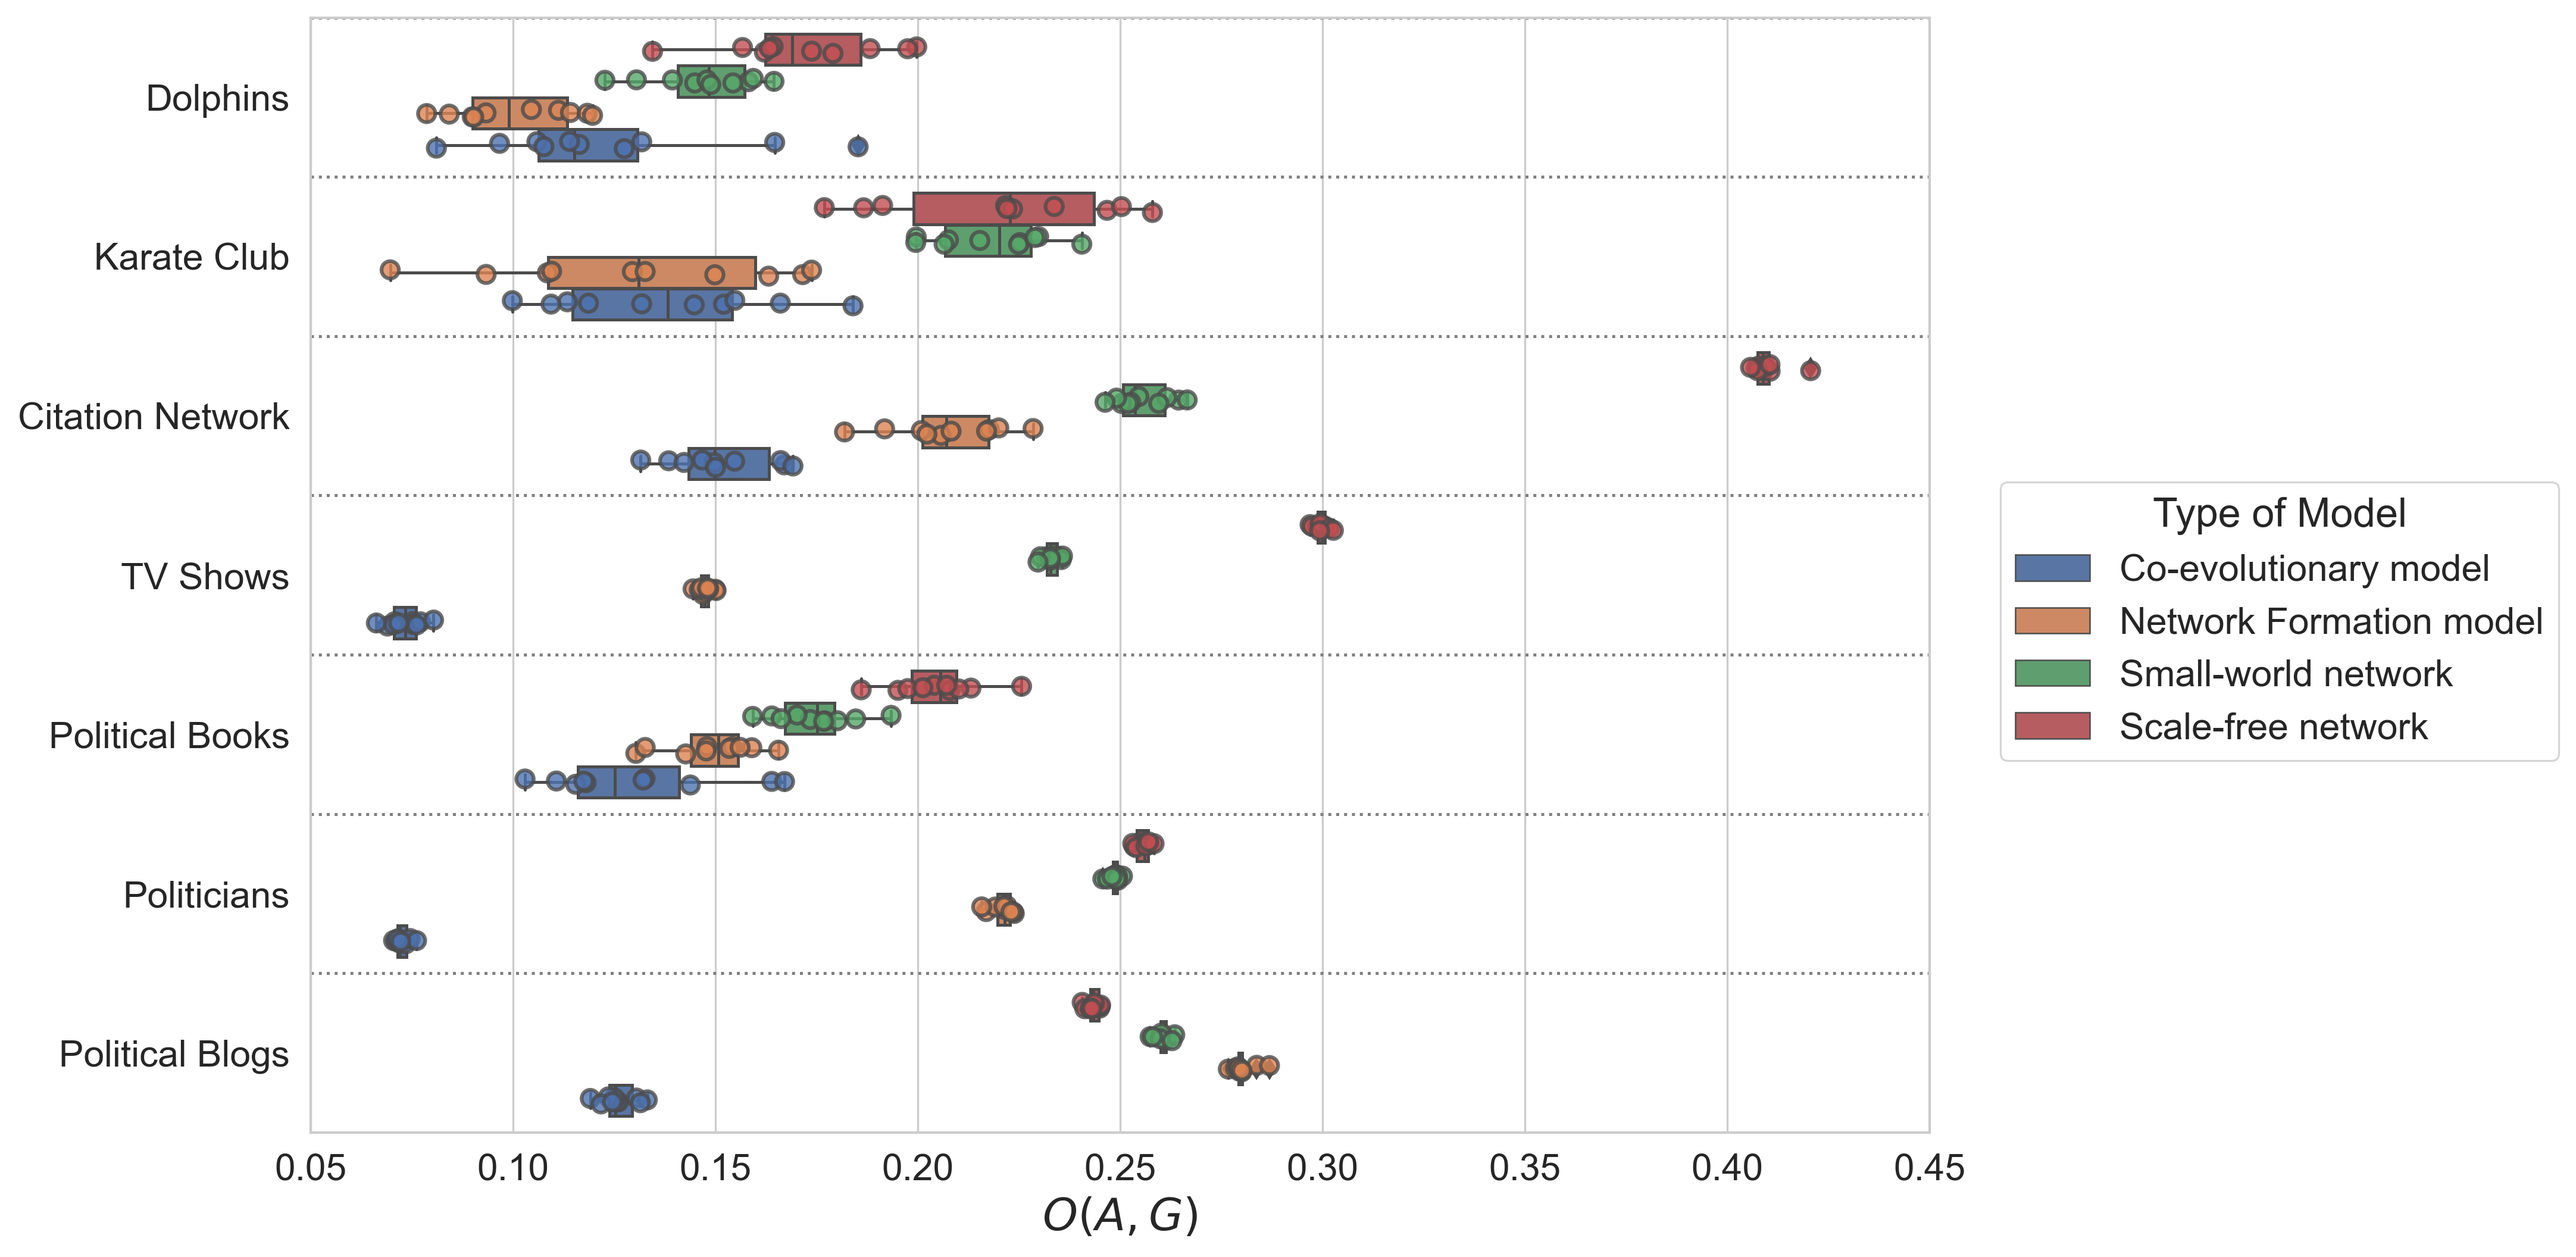
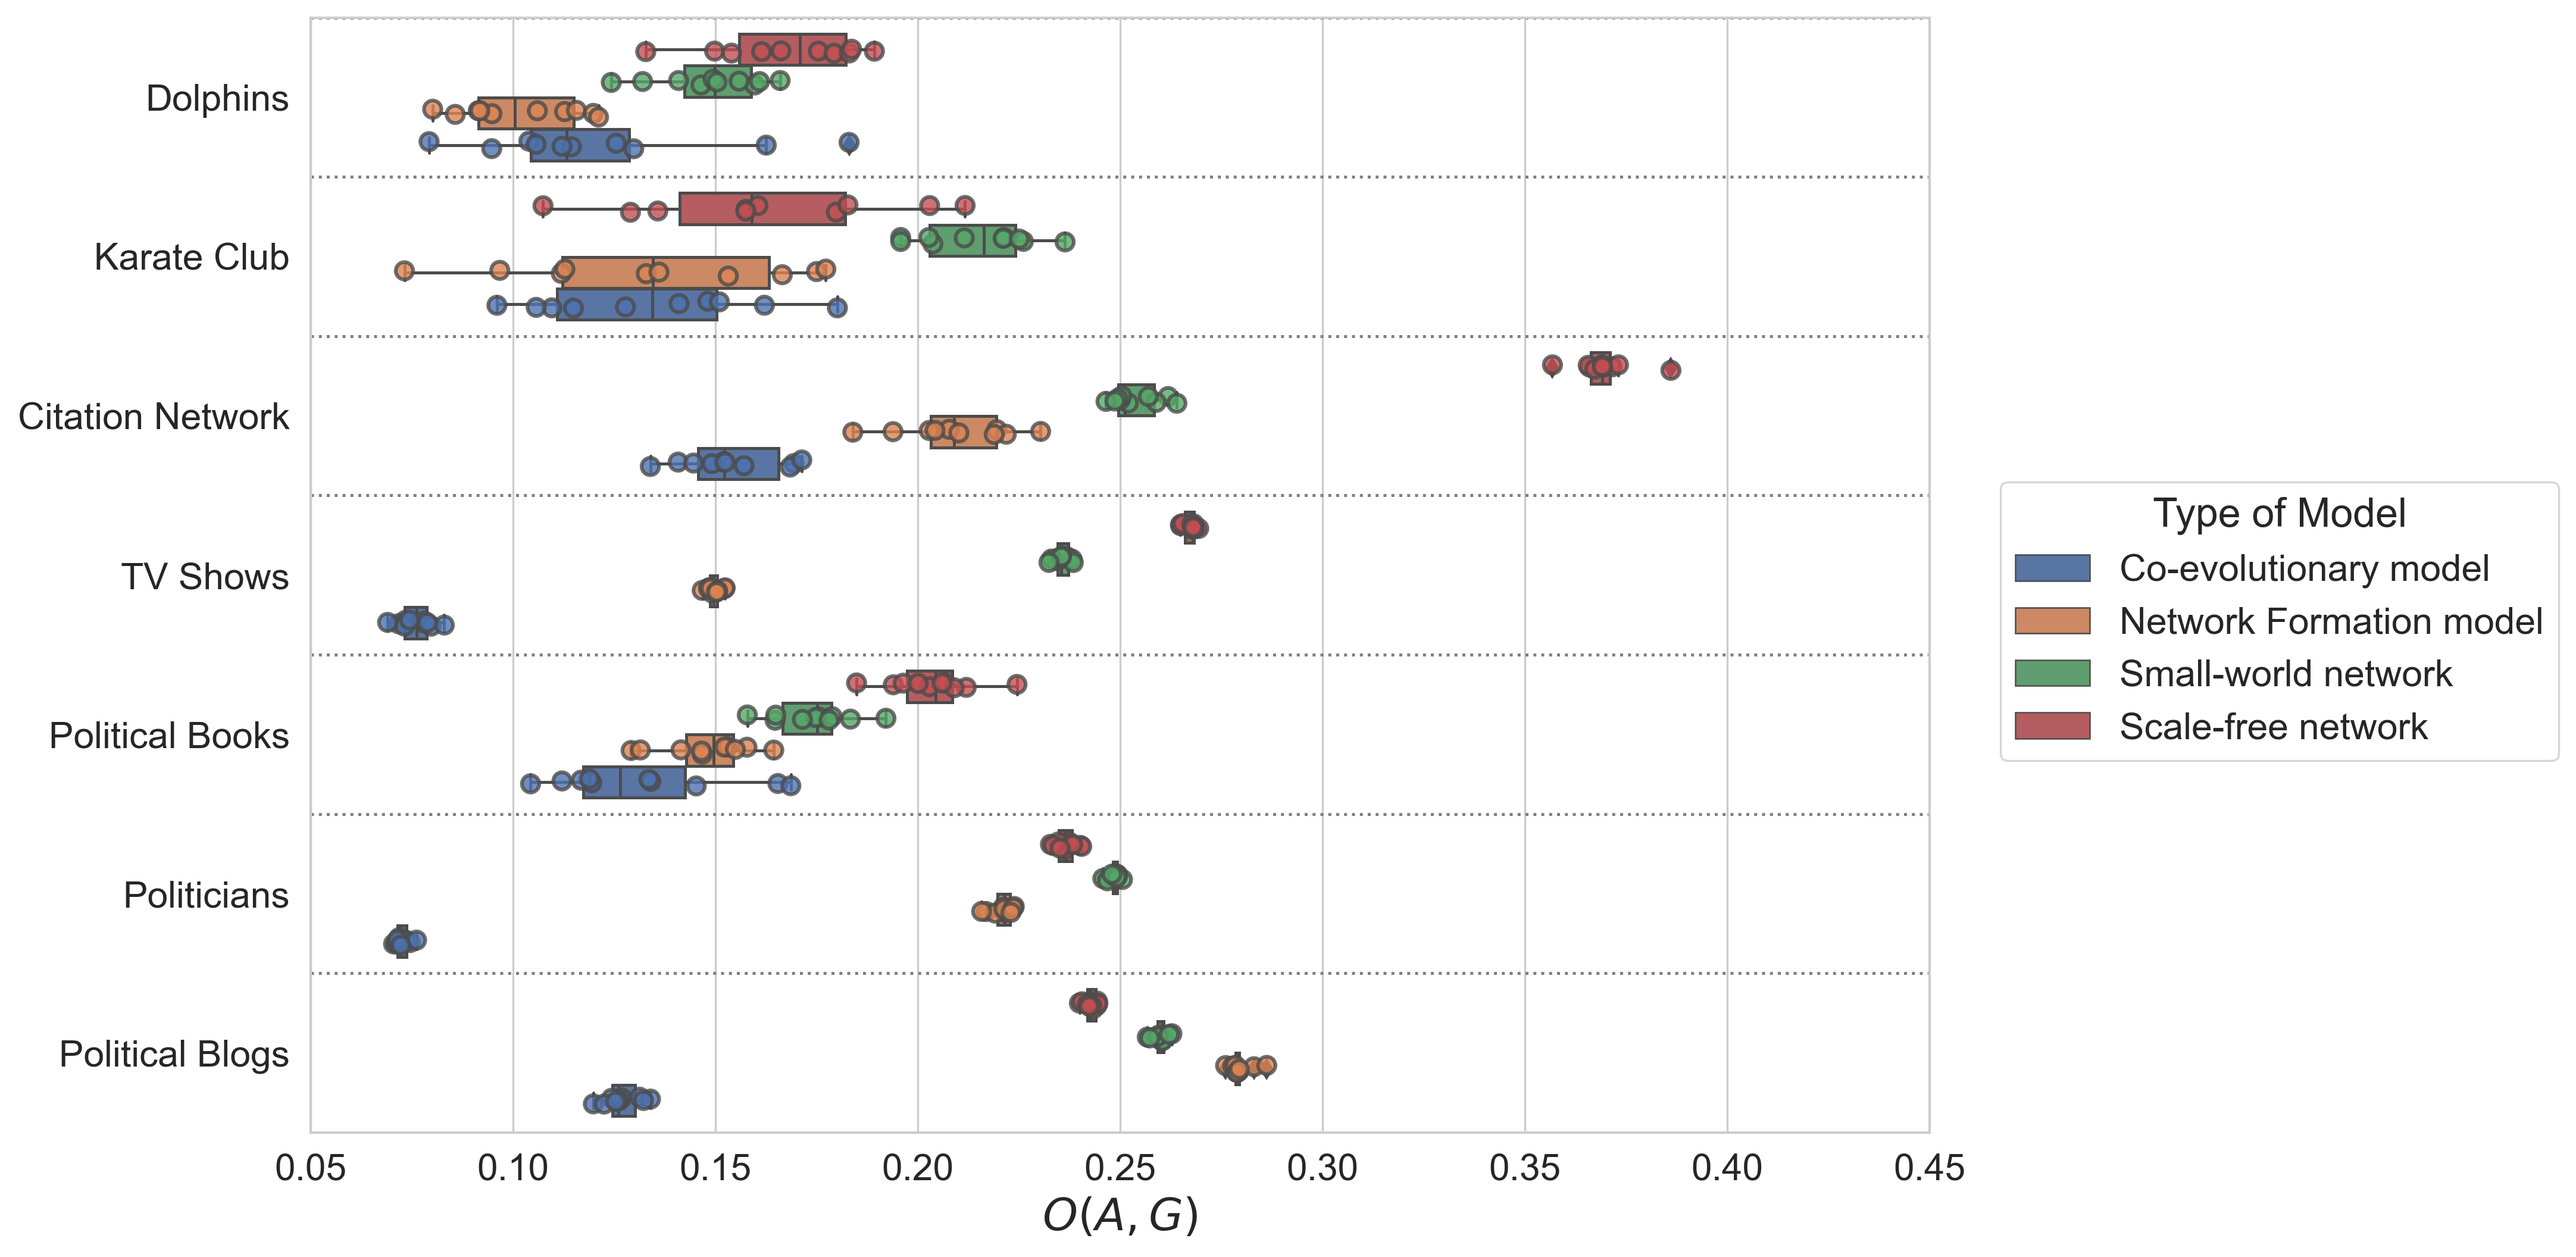
model evaluation update scale free

diff --git a/LaDoN/ladon/optimize_barabasi.py b/LaDoN/ladon/optimize_barabasi.py
@@ -69,7 +69,7 @@ def objective(trial, target, repeats, target_dictionary) -> float:
     # N_EDGES = target.number_of_edges()
     # K = round(N_EDGES / N_TARGET)
     # threshold = trial.suggest_float("threshold", 0.5, 2)
-    K = trial.suggest_int("K", 3, 20)
+    K = trial.suggest_int("K", 1, 20)
     # positive_learning_rate = trial.suggest_float("positive_learning_rate", 0, 0.5)
     # negative_learning_rate = trial.suggest_float("negative_learning_rate", 0, 0.5)
     # tie_dissolution = trial.suggest_float("tie_dissolution", 0.1, 1)

diff --git a/LaDoN/ladon/evaluate.py b/LaDoN/ladon/evaluate.py
@@ -123,7 +123,7 @@ g = sns.FacetGrid(
     col="variable",
     sharex=False,
     height=4,
-    gridspec_kws={"wspace": 0.1},
+    gridspec_kws={"wspace": 0.2},
     legend_out=True,
 )
 # f, ax = plt.subplots(figsize=(7, 5))
@@ -157,8 +157,9 @@ for ax, name in zip(
 ):
     ax.set_xlabel(name)
 g.axes[0][2].set(xlim=(0, 0.8))
+g.axes[0][1].set(xlim=(-3, 2))
 
-g.tight_layout()
+# g.tight_layout()
 
 g.savefig("plots/overall/Model_Evaluation_Overview", dpi=300)
 
